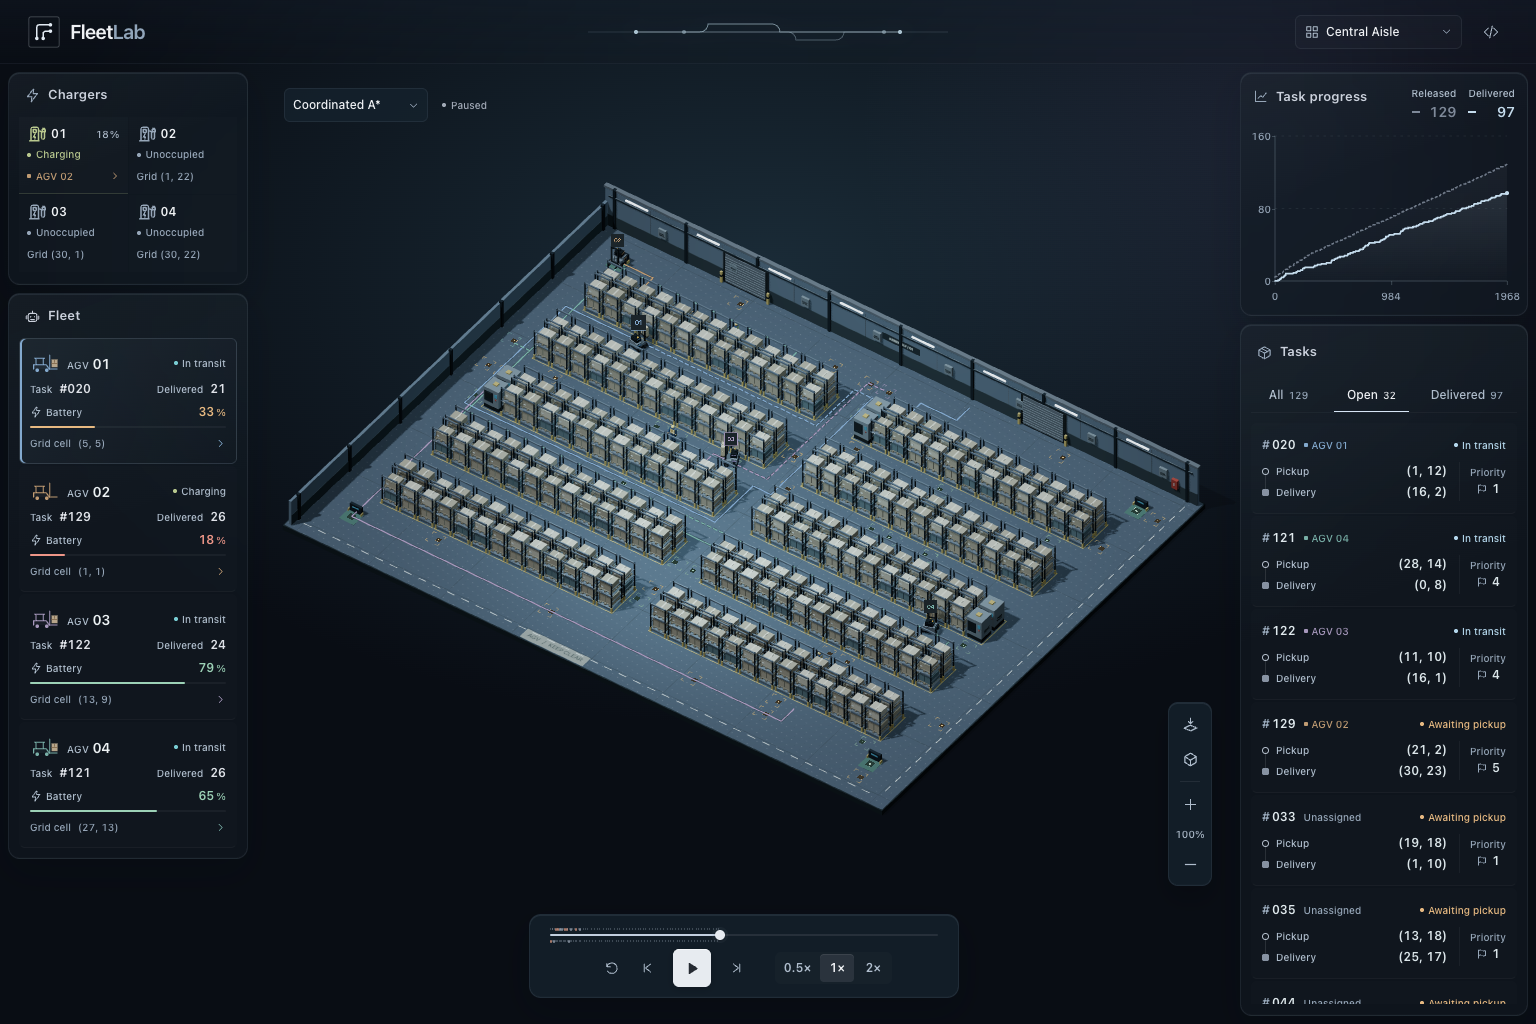
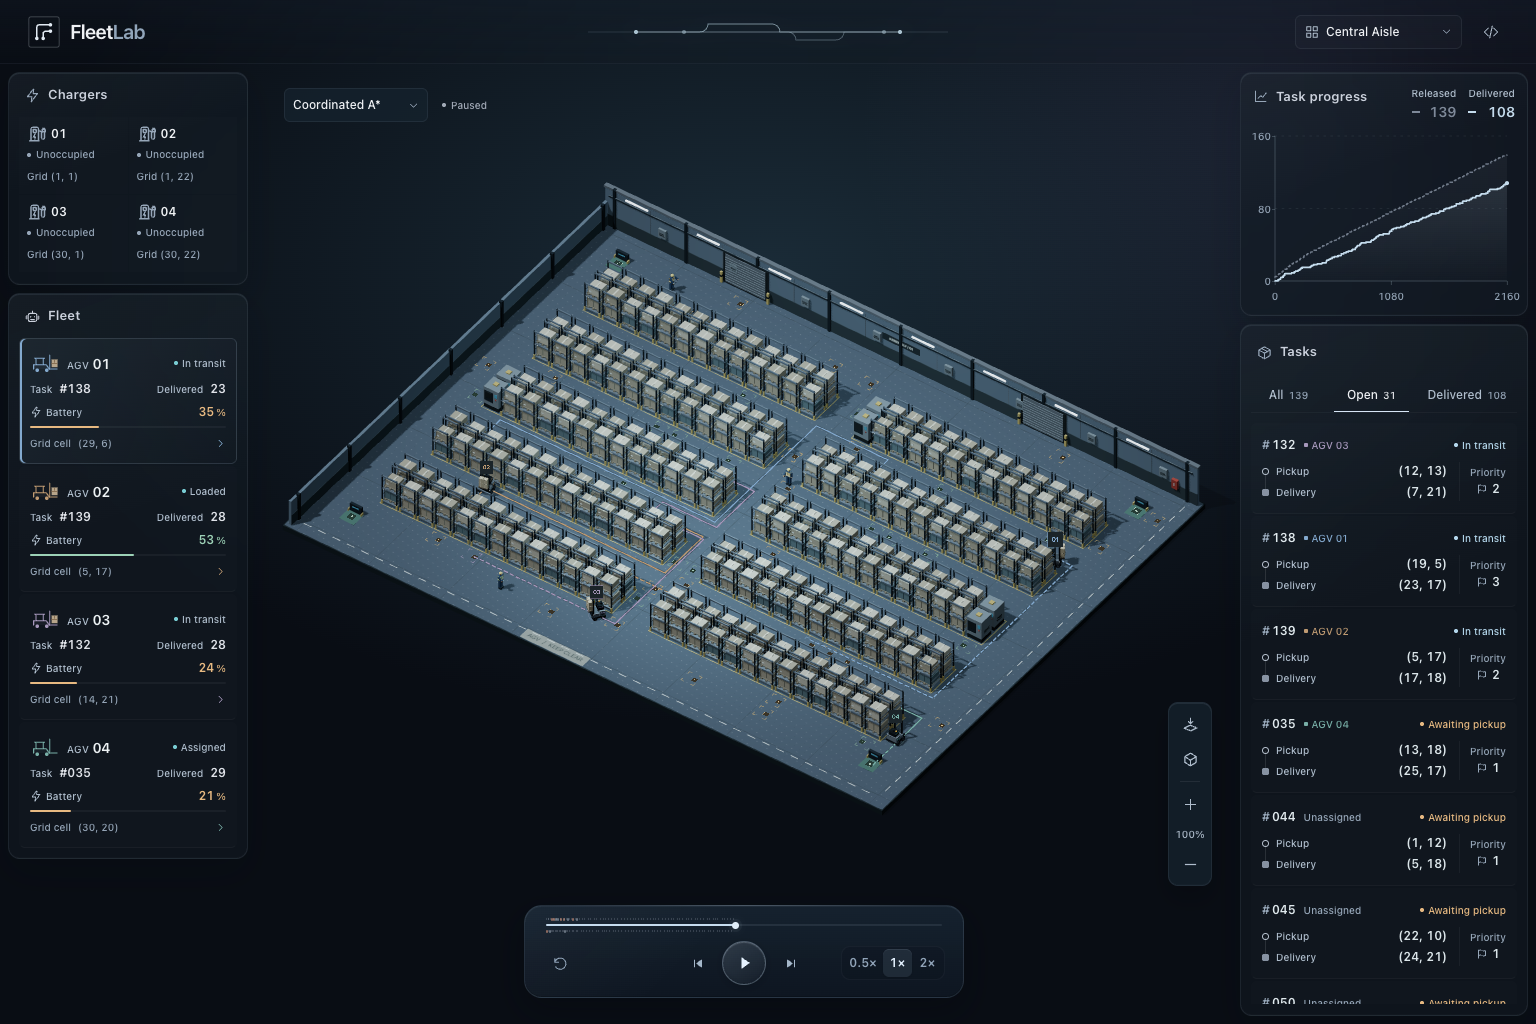
Refine replay controls with a centered glass play button
Center a circular glass play/pause button between restart and segmented
speed controls. Refine transport icons, timeline styling, and hover/focus
feedback while retaining replay behavior and event shortcuts.

Keep controls separate on narrow touch screens and refresh README and
social previews to match the interface.

Validated lint, TypeScript, the Pages build, 45 frontend checks, and browser
coverage of transport actions, seeking, event shortcuts, keyboard focus,
all playback speeds, six viewport widths, touch, and reduced motion.

diff --git a/web/app/globals.css b/web/app/globals.css
@@ -192,35 +192,41 @@ small { font-size: var(--text-caption); font-weight: 500; }
 .scene-error > svg { width: 16px; height: 16px; color: var(--accent); }
 .scene-error button, .error-shell button { padding: 6px 16px; border: 1px solid #ffffff18; border-radius: 3px; background: var(--surface-raised); color: var(--ink); }
 
-.replay-controls { --replay-highlight: var(--selection); --replay-track: #ffffff16; flex: 0 0 auto; margin: 0 auto; border: 1px solid var(--rule); padding: 10px 16px; background: var(--glass-overlay); position: absolute; z-index: 2; left: 12px; right: 12px; bottom: 18px; max-width: 430px; border-radius: 12px; box-shadow: var(--glass-edge), 0 12px 32px #03070d40; }
+.replay-controls { --replay-highlight: #c6dcef; --replay-track: #d6e8ff16; flex: 0 0 auto; margin: 0 auto; border: 1px solid #bdd8f21c; padding: 9px 18px 12px; background: linear-gradient(135deg, #d4e7ff09, transparent 42%), linear-gradient(180deg, #182533d9, #0e1722e8); position: absolute; z-index: 2; left: 12px; right: 12px; bottom: 18px; max-width: 440px; border-radius: 18px; box-shadow: inset 0 1px 0 #e3f0ff0d, inset 0 -1px 0 #02060b40, 0 12px 32px #03070d66; }
+.replay-controls::before { content: ""; position: absolute; height: 1px; top: -1px; left: 24px; right: 24px; background: linear-gradient(90deg, transparent, #c6dcef40, transparent); pointer-events: none; }
 .replay-controls :is(button, input):focus-visible { outline: 2px solid var(--replay-highlight); outline-offset: 3px; }
-.timeline-control { position: relative; height: 20px; margin: 0 4px; }
+.timeline-control { position: relative; height: 24px; margin: 0 3px; }
 .timeline-control input { appearance: none; position: relative; z-index: 2; display: block; width: 100%; height: 20px; margin: 0; border-radius: 4px; cursor: pointer; background: transparent; }
 .timeline-control input::-webkit-slider-runnable-track { height: 2px; background: linear-gradient(90deg, var(--replay-highlight) var(--timeline-progress), var(--replay-track) var(--timeline-progress)); border-radius: 2px; }
-.timeline-control input::-webkit-slider-thumb { appearance: none; width: 10px; height: 10px; margin-top: -4px; border-radius: 50%; background: #e6eaf0; border: 0; box-shadow: 0 0 0 3px #c2cfdf0c, 0 1px 4px #0005; }
+.timeline-control input::-webkit-slider-thumb { appearance: none; width: 7px; height: 7px; margin-top: -2.5px; border-radius: 50%; background: #e0edf8; border: 0; box-shadow: 0 0 0 3px #c6dcef0c, 0 0 9px #c6dcef26; }
 .timeline-control input::-moz-range-track { height: 2px; border-radius: 2px; background: var(--replay-track); }
 .timeline-control input::-moz-range-progress { height: 2px; border-radius: 2px; background: var(--replay-highlight); }
-.timeline-control input::-moz-range-thumb { width: 10px; height: 10px; border: 0; border-radius: 50%; background: #e6eaf0; box-shadow: 0 0 0 3px #c2cfdf0c, 0 1px 4px #0005; }
+.timeline-control input::-moz-range-thumb { width: 7px; height: 7px; border: 0; border-radius: 50%; background: #e0edf8; box-shadow: 0 0 0 3px #c6dcef0c, 0 0 9px #c6dcef26; }
+.timeline-control input:hover::-webkit-slider-thumb, .timeline-control input:focus-visible::-webkit-slider-thumb { box-shadow: 0 0 0 4px #c6dcef18, 0 0 12px #c6dcef33; }
+.timeline-control input:hover::-moz-range-thumb, .timeline-control input:focus-visible::-moz-range-thumb { box-shadow: 0 0 0 4px #c6dcef18, 0 0 12px #c6dcef33; }
 .timeline-events { position: absolute; inset: 0; pointer-events: none; }
 .timeline-event { position: absolute; top: calc(1px + var(--event-lane) * 12px); min-height: 6px; width: 6px; height: 6px; padding: 0; transform: translateX(-50%); border: 0; background: transparent; pointer-events: auto; z-index: 3; }
-.timeline-event::after { content: ""; display: block; width: 2px; height: 3px; margin: auto; border-radius: 1px; background: #9ca7b6; opacity: .75; }
+.timeline-event::after { content: ""; display: block; width: 2px; height: 3px; margin: auto; border-radius: 1px; background: #9ca7b6; opacity: .6; }
 .timeline-event.event-cell_blocked::after { background: #d7967e; }
-.timeline-event.event-order_arrival::after { background: #aeb9c8; width: 1px; height: 2px; opacity: .28; }
+.timeline-event.event-order_arrival::after { background: #aeb9c8; width: 1px; height: 2px; opacity: .22; }
 .timeline-event:hover::after, .timeline-event:focus-visible::after { background: var(--ink); opacity: 1; }
-.transport-row { display: flex; align-items: center; justify-content: center; gap: 24px; width: fit-content; max-width: 100%; margin: 4px auto 0; padding: 0; border: 0; border-radius: 0; background: transparent; box-shadow: none; }
-.transport-controls { display: flex; align-items: center; gap: 5px; }
-.transport-controls button { display: grid; place-items: center; min-height: 34px; width: 32px; padding: 0; border: 0; background: transparent; color: var(--muted); border-radius: 5px; }
-.transport-controls button:hover:not(:disabled) { background: #ffffff0d; color: var(--ink); }
-.transport-controls .icon { width: 14px; height: 14px; }
-.transport-controls .play-button { min-height: 38px; width: 38px; background: #e7ebf0; color: #252a32; border-radius: 6px; margin: 0 3px; box-shadow: inset 0 1px 0 #fff9, 0 2px 8px #0003; }
-.transport-controls button, .speed-control button, .camera-controls button { transition: color 140ms, background-color 140ms, box-shadow 140ms, transform 100ms; }
+.transport-row { position: relative; display: grid; grid-template-columns: minmax(0, 1fr) auto minmax(0, 1fr); align-items: center; gap: 0; width: 100%; margin: 2px auto 0; padding: 0; border: 0; background: transparent; }
+.transport-controls { grid-column: 2; display: flex; align-items: center; gap: 8px; }
+.transport-controls button { display: grid; place-items: center; min-height: 34px; width: 30px; padding: 0; border: 1px solid transparent; background: transparent; color: #a5b7ca; border-radius: 9px; }
+.transport-controls button:hover:not(:disabled) { background: #c6dcef0b; color: #eef6ff; }
+.transport-controls .restart-button { position: absolute; left: 0; width: 34px; color: #90a3b8; }
+.transport-controls .icon { width: 15px; height: 15px; }
+.transport-controls .step-button .icon { fill: currentColor; stroke-width: 1.3; }
+.transport-controls .play-button { min-height: 44px; width: 44px; background: linear-gradient(145deg, #c7deef28, #91b4d00b); color: #e5f2ff; border: 1px solid #cee6fa40; border-radius: 50%; box-shadow: inset 0 1px 1px #f1f8ff29, inset 0 -2px 4px #070d182e, 0 3px 10px #03070d40; }
+.transport-controls button, .speed-control button, .camera-controls button { transition: color 160ms, background-color 160ms, border-color 160ms, box-shadow 160ms, transform 120ms; }
 .transport-controls button:active:not(:disabled), .speed-control button:active:not(:disabled), .camera-controls button:active:not(:disabled) { transform: translateY(1px); }
-.transport-controls .play-button:hover:not(:disabled) { background: #ffffff; color: #16191e; }
-.transport-controls .play-button .icon { width: 17px; height: 17px; fill: currentColor; }
-.speed-control { display: flex; align-items: center; gap: 2px; flex: 0 0 auto; border: 0; border-radius: 6px; padding: 2px; background: #ffffff04; }
-.speed-control button { min-height: 28px; min-width: 34px; padding: 0 7px; border: 0; border-radius: 4px; background: transparent; color: var(--muted); font-size: var(--text-body); font-weight: 600; font-variant-numeric: tabular-nums; white-space: nowrap; }
-.speed-control button:hover:not(:disabled) { background: #ffffff0a; color: var(--ink); }
-.speed-control button.is-active { color: var(--ink); background: #ffffff16; box-shadow: inset 0 1px 0 #ffffff14; }
+.transport-controls .play-button:hover:not(:disabled) { background: linear-gradient(145deg, #d6eaff3b, #a3c7e21c); border-color: #cee6fa70; box-shadow: inset 0 1px 1px #f1f8ff38, 0 0 18px #b6d9f00c, 0 3px 10px #03070d40; }
+.transport-controls .play-button[aria-pressed="true"] { border-color: #cee6fa60; box-shadow: inset 0 1px 1px #f1f8ff29, 0 0 16px #a3c7e214; }
+.transport-controls .play-button .icon { width: 20px; height: 20px; fill: currentColor; stroke-width: 0; }
+.speed-control { grid-column: 3; justify-self: end; display: flex; align-items: center; gap: 1px; flex: 0 0 auto; border: 1px solid #c6dcef0b; border-radius: 9px; padding: 2px; background: #03080e24; }
+.speed-control button { min-height: 28px; min-width: 29px; padding: 0 5px; border: 0; border-radius: 6px; background: transparent; color: #90a3b8; font-size: var(--text-body); font-weight: 600; font-variant-numeric: tabular-nums; white-space: nowrap; }
+.speed-control button:hover:not(:disabled) { background: #c6dcef0a; color: #e5f2ff; }
+.speed-control button.is-active { color: #e5f2ff; background: #b8d9f21a; box-shadow: inset 0 1px 0 #d6eaff16, 0 1px 3px #03070d33; }
 
 .task-panel-content { display: flex; flex-direction: column; flex: 1; min-height: 0; padding: 0 10px 14px; }
 .task-filters { display: flex; flex: 0 0 34px; align-items: stretch; margin: 0 0 10px; padding: 0; border-radius: 0; background: transparent; gap: 8px; border-bottom: 1px solid #ffffff09; }
@@ -348,7 +354,7 @@ small { font-size: var(--text-caption); font-weight: 500; }
   .task-list { gap: 6px; }
   .task-card { padding: 9px; min-height: 82px; gap: 7px; }
   .replay-controls { padding-block: 8px; bottom: 14px; }
-  .transport-row { margin-top: 6px; padding-block: 4px; }
+  .transport-row { margin-top: 2px; }
   .chart-heading { margin-bottom: 14px; }
 }
 @media (max-width: 900px) {
@@ -380,12 +386,11 @@ small { font-size: var(--text-caption); font-weight: 500; }
   .map-heading > div { gap: 6px; }
   .playback-status { padding-inline: 5px; }
   .map-stage { min-height: 270px; }
-  .replay-controls { left: 0; right: 0; bottom: 8px; padding-inline: 10px; }
-  .transport-row { gap: 10px; }
-  .transport-controls { gap: 3px; }
+  .replay-controls { left: 0; right: 0; bottom: 8px; padding-inline: 12px; }
+  .transport-controls { gap: 4px; }
   .transport-controls button { width: 28px; }
-  .transport-controls .play-button { min-height: 34px; width: 34px; margin-inline: 2px; }
-  .speed-control button { min-width: 30px; padding-inline: 4px; }
+  .transport-controls .play-button { min-height: 42px; width: 42px; }
+  .speed-control button { min-width: 23px; padding-inline: 3px; font-size: var(--text-caption); }
   .fleet-sidebar { height: 670px; }
   .operations-panel { height: 670px; }
   .fleet-cards { gap: 2px; }
@@ -397,10 +402,14 @@ small { font-size: var(--text-caption); font-weight: 500; }
   .picker-menu { --picker-row-height: 42px; }
   .picker-trigger, .layout-picker .picker-trigger, .algorithm-picker .picker-trigger { min-height: 40px; }
   .camera-controls button { width: 36px; min-height: 40px; }
-  .transport-row { gap: 6px; }
-  .transport-controls button { width: 34px; min-height: 42px; }
+  .transport-controls button { width: 32px; min-height: 42px; }
   .transport-controls .play-button { width: 42px; min-height: 42px; margin-inline: 0; }
-  .speed-control button { min-height: 40px; min-width: 30px; padding-inline: 4px; }
+  .speed-control button { min-height: 40px; min-width: 24px; padding-inline: 3px; }
+}
+@media (max-width: 360px) {
+  .replay-controls { padding-inline: 10px; }
+  .speed-control { padding: 1px; gap: 0; }
+  .speed-control button { padding-inline: 2px; }
 }
 @media (pointer: coarse) and (max-width: 900px) {
   .scene-canvas { padding-bottom: 190px; }

diff --git a/web/app/components/fleet-explorer.tsx b/web/app/components/fleet-explorer.tsx
@@ -273,10 +273,10 @@ export default function FleetExplorer() {
             </div>
             <div className="transport-row">
               <div className="transport-controls" role="group" aria-label="Replay transport">
-                <button onClick={() => seek(0)} disabled={!time && !playing} aria-label="Restart replay" title="Restart replay"><Icon name="restart" /></button>
-                <button onClick={() => seek(time - 1)} disabled={!time} aria-label="Previous time step" title="Previous step (←)"><Icon name="back" /></button>
-                <button className="play-button" disabled={loadingAlgorithm} onClick={() => { if (complete) setTime(0); setPlaying((value) => !value); }} aria-label={playing ? "Pause replay" : complete ? "Replay from start" : "Play replay"} aria-keyshortcuts="Space" title="Play / pause (Space)"><Icon name={playing ? "pause" : "play"} /></button>
-                <button onClick={() => seek(time + 1)} disabled={complete} aria-label="Next time step" title="Next step (→)"><Icon name="next" /></button>
+                <button className="restart-button" onClick={() => seek(0)} disabled={!time && !playing} aria-label="Restart replay" title="Restart replay"><Icon name="restart" /></button>
+                <button className="step-button" onClick={() => seek(time - 1)} disabled={!time} aria-label="Previous time step" title="Previous step (←)"><Icon name="back" /></button>
+                <button className="play-button" disabled={loadingAlgorithm} onClick={() => { if (complete) setTime(0); setPlaying((value) => !value); }} aria-label={playing ? "Pause replay" : complete ? "Replay from start" : "Play replay"} aria-pressed={playing} aria-keyshortcuts="Space" title="Play / pause (Space)"><Icon name={playing ? "pause" : "play"} /></button>
+                <button className="step-button" onClick={() => seek(time + 1)} disabled={complete} aria-label="Next time step" title="Next step (→)"><Icon name="next" /></button>
               </div>
               <div className="speed-control" role="group" aria-label="Playback speed">{speeds.map((rate) => <button key={rate} className={speed === rate ? "is-active" : ""} aria-pressed={speed === rate} onClick={() => setSpeed(rate)}>{rate}×</button>)}</div>
             </div>

diff --git a/web/app/components/ui-icon.tsx b/web/app/components/ui-icon.tsx
@@ -6,10 +6,10 @@ const iconPaths = {
   reset: "m12 3 8 5v8l-8 5-8-5V8l8-5ZM4 8l8 5 8-5M12 13v8",
   minus: "M5 12h14",
   plus: "M5 12h14M12 5v14",
-  play: "m9 5 11 7-11 7V5Z",
-  pause: "M8 5v14M16 5v14",
-  back: "m15 5-9 7 9 7M4 5v14",
-  next: "m9 5 9 7-9 7M20 5v14",
+  play: "m9 5 10 7-10 7V5Z",
+  pause: "M7 5h3.5v14H7zM13.5 5H17v14h-3.5z",
+  back: "m15.5 6-8 6 8 6V6ZM4 6v12",
+  next: "m8.5 6 8 6-8 6V6ZM20 6v12",
   restart: "M3 10a9 9 0 1 1 1 7M3 4v6h6",
   bolt: "m13 2-9 12h7l-1 8 10-13h-7l1-7Z",
   charger: "M2 21h13M4 21V5a2 2 0 0 1 2-2h6a2 2 0 0 1 2 2v16M7 6h4v4H7zM9.5 12 7 16h3l-1 3M14 8h2a2 2 0 0 1 2 2v7a2 2 0 0 0 4 0V9M20 4v2m2-2v2M19 6h4v3h-4z",

diff --git a/README.md b/README.md
@@ -12,7 +12,7 @@ Coordinated forklifts. Shared factory floors. Interactive 3D simulation replays.
 
 </div>
 
-[![FleetLab console with a 3D factory, forklift routes, fleet and charger status, task progress, and a compact task queue](docs/assets/replay-explorer.png?v=d8369b5)](https://revincxt.github.io/FleetLab/)
+[![FleetLab console with a 3D factory, forklift routes, fleet and charger status, task progress, and a compact task queue](docs/assets/replay-explorer.png?v=transport-20261112)](https://revincxt.github.io/FleetLab/)
 
 ## Overview
 
